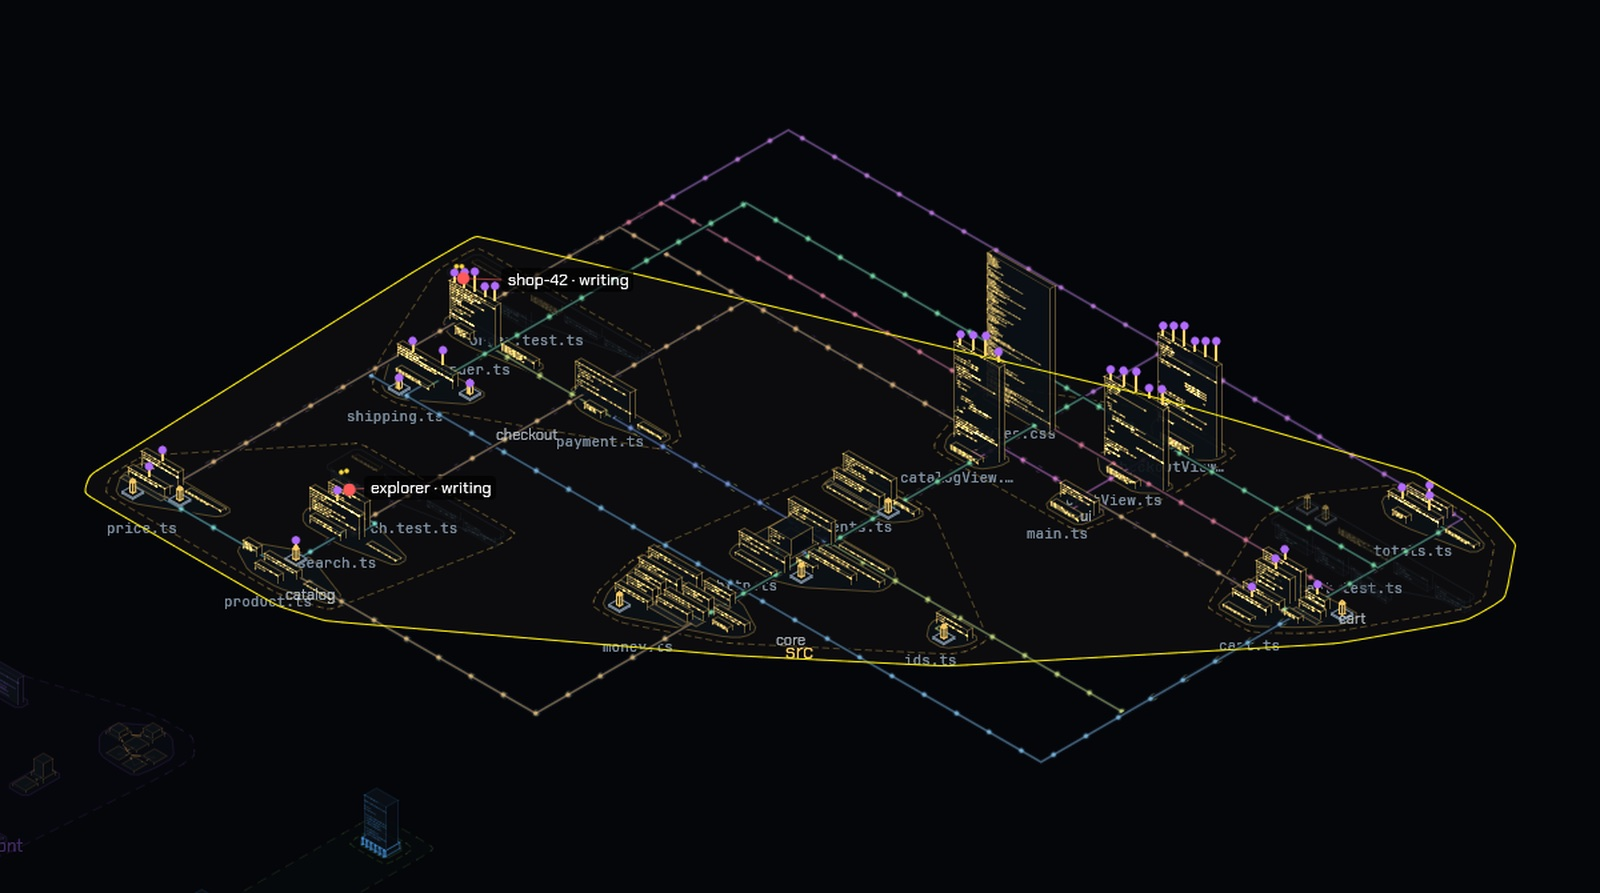
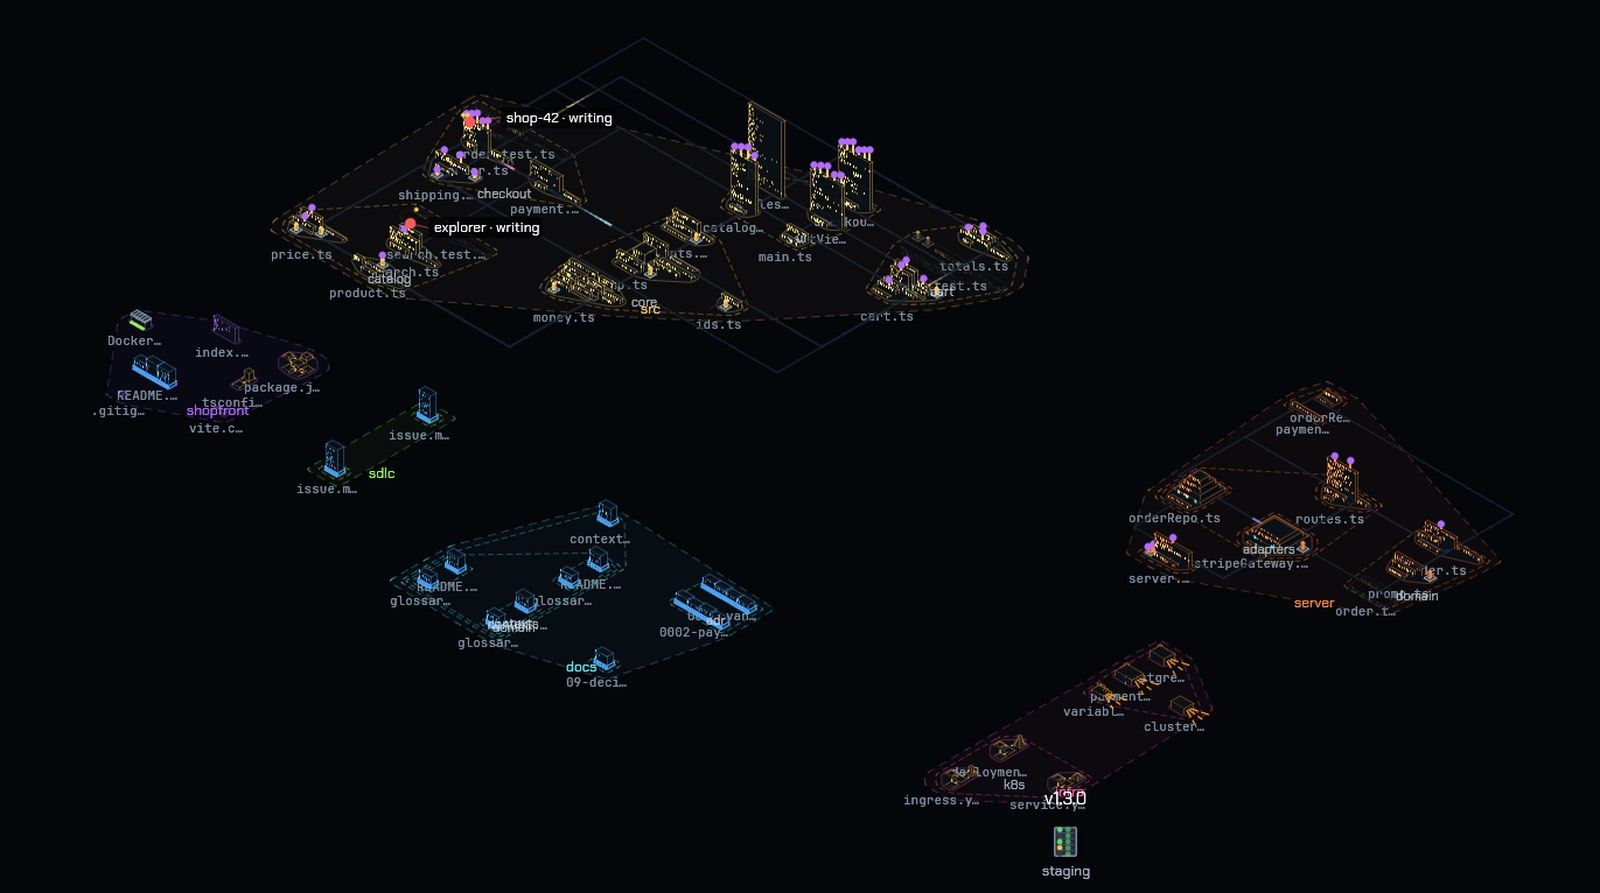
docs: overview city with import highways as the README hero

diff --git a/README.md b/README.md
@@ -2,7 +2,7 @@
 
 **Your projects, code, agent sessions and tickets on one map.**
 
-![The src district of the demo shop as a city in Cellworks: import lanes with traffic running between file towers, agent sessions writing](docs/assets/city-lanes.jpg)
+![The whole demo shop as a city in Cellworks: import lanes run as highways between the districts with traffic moving along them, agent sessions writing](docs/assets/city-lanes.jpg)
 
 Cellworks is a native macOS app that draws the projects on your machine as a zoomable city. Every folder is a
 district, every file a tower whose floors are its functions, and lanes show what imports or calls what. Your Claude
